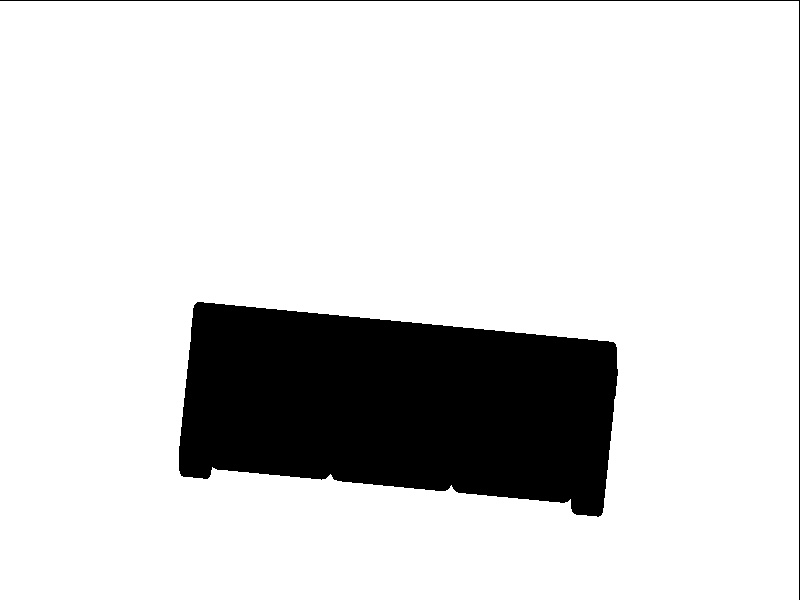
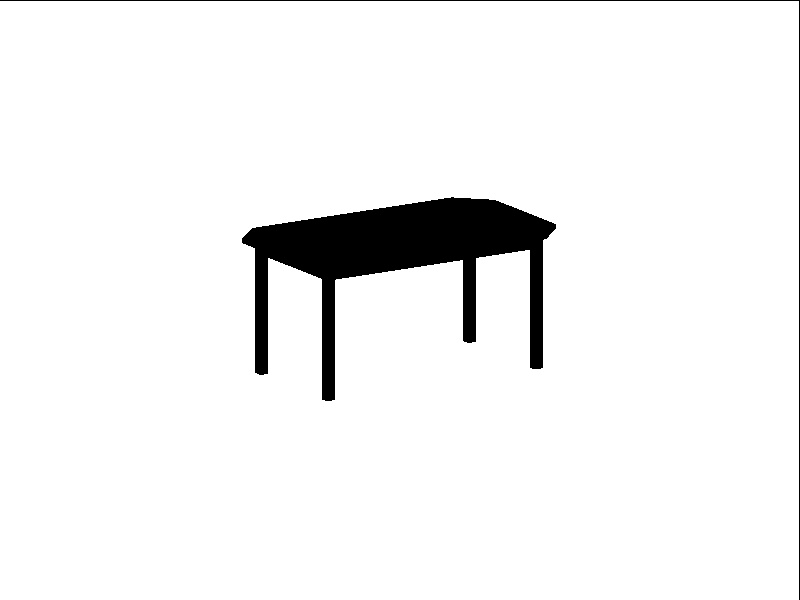
Implemented automatic assignment

Changed region(s): [[0.2188, 0.33, 0.7812, 0.87]]

diff --git a/main.cpp b/main.cpp
@@ -50,7 +50,7 @@ int main(int argc, char *argv[])
 
     Display display(DISPLAY_WIDTH, DISPLAY_HEIGHT, "Mesh visualiser");
 
-    Mesh mesh("/home/isa/Desktop/UIwithoutQT/Meshes/couch.obj");
+    Mesh mesh("/home/isa/Desktop/UIwithoutQT/Meshes/table.obj");
     Mesh *cubeMesh = createOBB(mesh.radius, mesh.centre);
 
     Shader mainShader("/home/isa/Desktop/UIwithoutQT/Shader/basicShader");
@@ -73,13 +73,16 @@ int main(int argc, char *argv[])
             display.Clear(0.0f, 0.15f, 0.3f, 1.0f);
 
             mainShader.Bind();
-            if(display.materialKey == -1)
-                mainShader.Update(transform_camera, camera, transform_mesh, basic_material);
-            else
+            if(display.materialKey != -1 && !bestMaterials.empty())
                 mainShader.Update(transform_camera, camera, transform_mesh, materials.at(display.materialKey));
+
+            else if (display.materialKey == -1 && !bestMaterials.empty())
+                mainShader.Update(transform_camera, camera, transform_mesh, materials.at(0));
+            else
+                mainShader.Update(transform_camera, camera, transform_mesh, basic_material);
             mesh.Draw();
 
-            if(display.materialKey == -1){
+            if(display.materialKey == -1 && bestMaterials.empty()){
                 cubeShader.Bind();
                 cubeShader.UpdateWOBB(transform_camera, camera, transform_OBB);
                 cubeMesh->Draw();
@@ -143,6 +146,7 @@ int main(int argc, char *argv[])
             }
 
             //start similarity check
+            bestMaterials.clear();
             evaluator.LoadSilhouettesContour();
             //bestMaterials = evaluator.CompareFourier();
             bestMaterials = evaluator.CompareShapeContext();
@@ -248,6 +252,4 @@ void extractMaterials(const DB_elements& dbElements, vector<Material> &materials
     materials.clear();
     for(unsigned int i = 0; i < bestMaterials.size(); i++)
         materials.push_back(dbElements.at(bestMaterials.at(i)).material);
-
-    bestMaterials.clear();
 }

diff --git a/similarityevaluator.cpp b/similarityevaluator.cpp
@@ -180,6 +180,8 @@ vector<int> SimilarityEvaluator::FindTop(vector<tuple<int, float>> scores){
     int vecIndex = 0;
     vector<int> best;
 
+    std::cout << "-------------Results-------------" << std::endl;
+
     for(int j = 0; j < N_BEST; j++)
     {
         for (unsigned int i = 0 ; i < scores.size(); i++){
@@ -190,7 +192,7 @@ vector<int> SimilarityEvaluator::FindTop(vector<tuple<int, float>> scores){
             }
         }
         scores.erase(scores.begin()+vecIndex);
-        std::cout << "Best - " << indexMin << " - " << min << std::endl;
+        std::cout << "Best #" << j+1 << " - index " <<indexMin << " - difference " << min << ". Material: " << dbElements.at(indexMin).name << std::endl;
         best.push_back(indexMin);
 
         min = 1;
